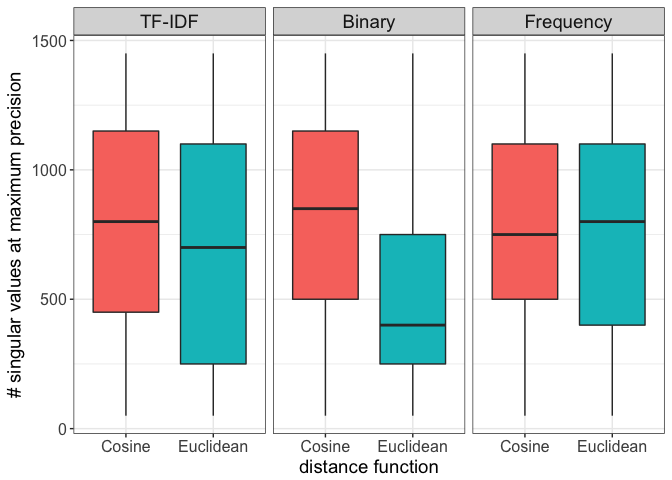
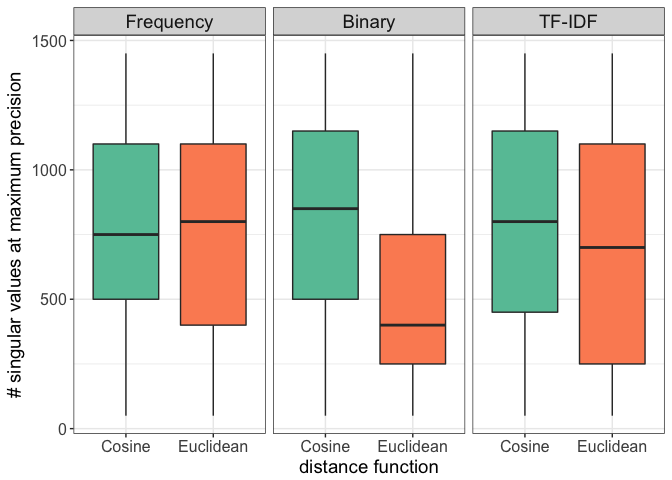
Improve figures top10 precision small matrices
- More consistent colors across different graphs
- Consistent factor ordering
- Fix labels
- Combine curves into one graph

diff --git a/PubMed_100_Random_Papers/Results/Multiple_Instances_top10/analysis_top10.md b/PubMed_100_Random_Papers/Results/Multiple_Instances_top10/analysis_top10.md
@@ -4,9 +4,7 @@ November 14, 2016
 
 (this is copied pasted from "../multiple_instances/result_muliple.Rmd". The only difference is that the data source is swapped out. The graphs from this one are the ones to go into the thesis)
 
-
-This shows the result of 92 repeats of [this experiment](result.md). 
-The data are split by the type of matrices in order to decrease the time of processing 
+This shows the result of 92 repeats of small matrices experiment. The purpose is to test the precision, using PubMed as ground truth, when we use different parameters. 
 
 # Data preparation and inspection
 
@@ -18,7 +16,8 @@ library(dplyr)
 library(knitr) # kable()
 library(tidyr)
 ```
-First load the data 
+
+First load the data for top10 precision. 
 
 ```r
 # A function to prepare the data 
@@ -68,7 +67,7 @@ Lastly, we'll combine all three dataframes
 tf_idf$matrixType <- factor("TF-IDF")
 term_binary$matrixType <- factor("Binary")
 term_frequency$matrixType <- factor("Frequency")
-all_result <- rbind(tf_idf, term_binary, term_frequency)
+all_result <- rbind(term_frequency, term_binary, tf_idf)
 str(all_result) # inspect final dataframe
 ```
 
@@ -77,9 +76,9 @@ str(all_result) # inspect final dataframe
 ##  $ ExperimentNum: Factor w/ 92 levels "1","2","3","4",..: 10 10 10 10 10 10 10 10 10 10 ...
 ##  $ distFunc     : Factor w/ 2 levels "Cosine","Euclidean": 2 1 2 1 2 1 2 1 2 1 ...
 ##  $ nsv          : int  50 50 100 100 150 150 200 200 250 250 ...
-##  $ precision    : num  0.88 0.898 0.916 0.944 0.912 ...
-##  $ seconds      : num  48.57 6.97 49.93 7.21 52.54 ...
-##  $ matrixType   : Factor w/ 3 levels "TF-IDF","Binary",..: 1 1 1 1 1 1 1 1 1 1 ...
+##  $ precision    : num  0.596 0.632 0.695 0.745 0.729 ...
+##  $ seconds      : num  46.62 6.21 47.71 6.35 50.34 ...
+##  $ matrixType   : Factor w/ 3 levels "Frequency","Binary",..: 1 1 1 1 1 1 1 1 1 1 ...
 ```
 
 # Average precision curves 
@@ -90,10 +89,10 @@ The lines are the means of precisions from 92 different experiments for a given 
 ```r
 create_curves <- function(data, graphTitle){
   ggplot(data, aes(x=nsv, y=precision, colour=distFunc)) + geom_point(alpha=0.1) + 
-  facet_grid(matrixType ~ .) + theme_bw() + ggtitle(graphTitle) + scale_x_continuous(expand = c(0, 0), breaks=seq(0, 1500, by=100)) + 
+  facet_grid(matrixType ~ .) + theme_bw() + ggtitle(graphTitle) + scale_x_continuous(expand = c(0, 0), breaks=seq(0, 1500, by=100)) +
   labs(x="# singular values",y="Average precision") +
-  theme(plot.title = element_text(color="#666666", face="bold", size=16, hjust=0.2, vjust=1))+ 
-  stat_summary(fun.y = mean, geom="line", size=1.5)
+  theme(plot.title = element_text(color="#666666", face="bold", size=16, hjust=0.2, vjust=1), legend.title=element_blank())+ 
+  stat_summary(fun.y = mean, geom="line", size=1.0) + scale_colour_brewer(palette="Set2")
 }
 create_curves(all_result, "Average precisions in retrieving related PubMed articles")
 ```
@@ -117,12 +116,12 @@ kable(maxima, format="markdown") # ensure Github can render the table
 
 |matrixType |distFunc  |  nsv| precision|
 |:----------|:---------|----:|---------:|
-|TF-IDF     |Cosine    | 1400| 0.9488416|
-|TF-IDF     |Euclidean |  100| 0.9044853|
-|Binary     |Cosine    | 1300| 0.8719828|
-|Binary     |Euclidean |  300| 0.6278501|
 |Frequency  |Cosine    | 1150| 0.8481930|
 |Frequency  |Euclidean |  400| 0.7449516|
+|Binary     |Cosine    | 1300| 0.8719828|
+|Binary     |Euclidean |  300| 0.6278501|
+|TF-IDF     |Cosine    | 1400| 0.9488416|
+|TF-IDF     |Euclidean |  100| 0.9044853|
 
 As demosntrated in the code: I first take the mean of precisions across all samples, for each unique combination of sample number, nsv, distance function, and matrix type. So basically an average for 92 different points. Then I get the maxima prececisions across all number of singular values for each unique combination of distance function and matrixtype. That way we know, on average, at what nsv are the maxima precision is achieved. 
 
@@ -138,18 +137,18 @@ term_binary_coverage <- read.table("data/term_binary_frobenius.result", header=T
 tfidf_coverage$matrixType = factor("TF-IDF")
 term_freq_coverage$matrixType = factor("Frequency")
 term_binary_coverage$matrixType = factor("Binary")
-coverage <- rbind(tfidf_coverage, term_freq_coverage, term_binary_coverage)
+coverage <- rbind(term_freq_coverage, term_binary_coverage, tfidf_coverage)
 coverage <- dplyr::mutate(coverage, cov = variance/forbenius)
 
 # Graph
-create_curves <- function(data, graphTitle){
-  ggplot(data, aes(x=nsv, y=cov)) + geom_point(alpha=0.1) + 
-  facet_grid(matrixType ~ .) + theme_bw() + ggtitle(graphTitle) + scale_x_continuous(expand = c(0, 0), breaks=seq(0, 1500, by=100)) + 
-  labs(x="# singular values",y="Average precision") +
-  theme(plot.title = element_text(color="#666666", face="bold", size=16, hjust=0.2, vjust=1))+ 
-  stat_summary(fun.y = mean, geom="line", size=1.5)
+create_curves <- function(data){
+  ggplot(data, aes(x=nsv, y=cov, colour=matrixType)) + geom_point(alpha=0.1) +
+  theme_bw() + scale_x_continuous(expand = c(0, 0), breaks=seq(0, 1500, by=100)) + 
+  labs(x="# singular values",y="Average coverage") + 
+  theme(plot.title = element_text(color="#666666", face="bold", size=16, hjust=0.2, vjust=1),legend.title=element_blank()) + 
+  stat_summary(fun.y = mean, geom="line", size=1.0)
 }
-create_curves(coverage, "Average coverage")
+create_curves(coverage)
 ```
 
 ![](analysis_top10_files/figure-html/coverage-1.png)<!-- -->
@@ -159,17 +158,22 @@ create_curves(coverage, "Average coverage")
 ```r
 sVals  <- read.table("data/singular_value_summary.result", header=TRUE)
 sVals  <-  ddply(sVals, c("matrix_type", "rank"), summarise, avg_sval = mean(singular_value), avg_error = mean(error_estimate), std_sval = sd(singular_value), std_error = sd(error_estimate))
-ggplot(data=sVals, aes(x = rank, y=avg_sval, colour=matrix_type)) + geom_point(alpha=0.3) + labs(x="Rank",y="Average singular value")
+
+# Rearrange and rename factors to match the first graph.
+sVals$matrix_type <- factor(sVals$matrix_type, levels=c("term_freq", "term_binary", "tf_idf"), labels=c("Frequency", "Binary", "TF-IDF"))
+
+# Plot singular value by rank plot
+ggplot(data=sVals, aes(x = rank, y=avg_sval, colour=matrix_type)) + geom_point(alpha=0.3) + labs(x="Rank",y="Average singular value") + theme_bw() + theme(legend.title=element_blank()) 
 ```
 
 ![](analysis_top10_files/figure-html/singular_val_plots-1.png)<!-- -->
 
 ```r
-ggplot(data=sVals, aes(x = rank, y=avg_error, colour=matrix_type)) + geom_point(alpha=0.3) + labs(x="Rank",y="Average error estimates")
+# Plot error by rank 
+ggplot(data=sVals, aes(x = rank, y=avg_error, colour=matrix_type)) + geom_point(alpha=0.3) + labs(x="Rank",y="Average error estimates") + theme_bw() + theme(legend.title=element_blank())
 ```
 
 ![](analysis_top10_files/figure-html/singular_val_plots-2.png)<!-- -->
-
 
 I don't know how to explain both the superior of TFIDF but its lower coverage than the other two metrics. Perhaps with TF-IDF the first ranks captured by SVD are more accurate. 
 
@@ -186,7 +190,7 @@ ggplot(max_mean, aes(x=distFunc, y=precision, fill=distFunc)) + geom_boxplot(sho
         legend.text = element_text(size=14),
         axis.text = element_text(size=12), 
         axis.title = element_text(size=14), 
-        strip.text.x = element_text(size=14))
+        strip.text.x = element_text(size=14)) + scale_fill_brewer(palette="Set2") 
 ```
 
 ![](analysis_top10_files/figure-html/unnamed-chunk-7-1.png)<!-- -->
@@ -207,12 +211,12 @@ kable(max_mean_sd, format="markdown") # ensure Github can render the table
 
 |matrixType |distFunc  | avg_max_precision|        sd|
 |:----------|:---------|-----------------:|---------:|
-|TF-IDF     |Cosine    |         0.9540638| 0.0134976|
-|TF-IDF     |Euclidean |         0.9067123| 0.0224186|
-|Binary     |Cosine    |         0.8741209| 0.0205064|
-|Binary     |Euclidean |         0.6321046| 0.0324885|
 |Frequency  |Cosine    |         0.8517526| 0.0241156|
 |Frequency  |Euclidean |         0.7514892| 0.0312614|
+|Binary     |Cosine    |         0.8741209| 0.0205064|
+|Binary     |Euclidean |         0.6321046| 0.0324885|
+|TF-IDF     |Cosine    |         0.9540638| 0.0134976|
+|TF-IDF     |Euclidean |         0.9067123| 0.0224186|
 
 # Distribution of nsv at maxima precision 
 
@@ -227,7 +231,7 @@ ggplot(maxima_nsv, aes(x=distFunc, y=nsv, fill=distFunc)) + geom_boxplot(show.le
         legend.text = element_text(size=14),
         axis.text = element_text(size=12), 
         axis.title = element_text(size=14), 
-        strip.text.x = element_text(size=14))
+        strip.text.x = element_text(size=14)) + scale_fill_brewer(palette="Set2")
 ```
 
 ![](analysis_top10_files/figure-html/unnamed-chunk-10-1.png)<!-- -->
@@ -243,12 +247,12 @@ kable(max_nsv_sd, format="markdown") # ensure Github can render the table
 
 |matrixType |distFunc  | avg_max_nsv|       sd|
 |:----------|:---------|-----------:|--------:|
-|TF-IDF     |Cosine    |    787.3079| 405.8333|
-|TF-IDF     |Euclidean |    701.4610| 446.7085|
-|Binary     |Cosine    |    820.6219| 404.4732|
-|Binary     |Euclidean |    534.4482| 395.5325|
 |Frequency  |Cosine    |    791.6722| 380.5501|
 |Frequency  |Euclidean |    756.7708| 402.7234|
+|Binary     |Cosine    |    820.6219| 404.4732|
+|Binary     |Euclidean |    534.4482| 395.5325|
+|TF-IDF     |Cosine    |    787.3079| 405.8333|
+|TF-IDF     |Euclidean |    701.4610| 446.7085|
 
 # Running time
 
@@ -257,7 +261,7 @@ This is to see how long the calculation takes. So it looks like using cosine fun
 
 ```r
 ggplot(all_result_means, aes(x=nsv, y=meanTime, colour=distFunc)) + geom_point() + facet_grid(matrixType ~ .) + 
-  theme_bw() + labs(x="number of singular values", y="average time") 
+  theme_bw() + labs(x="number of singular values", y="average time")  + scale_colour_brewer(palette="Set2") + theme(legend.title=element_blank())
 ```
 
 ![](analysis_top10_files/figure-html/unnamed-chunk-12-1.png)<!-- -->
